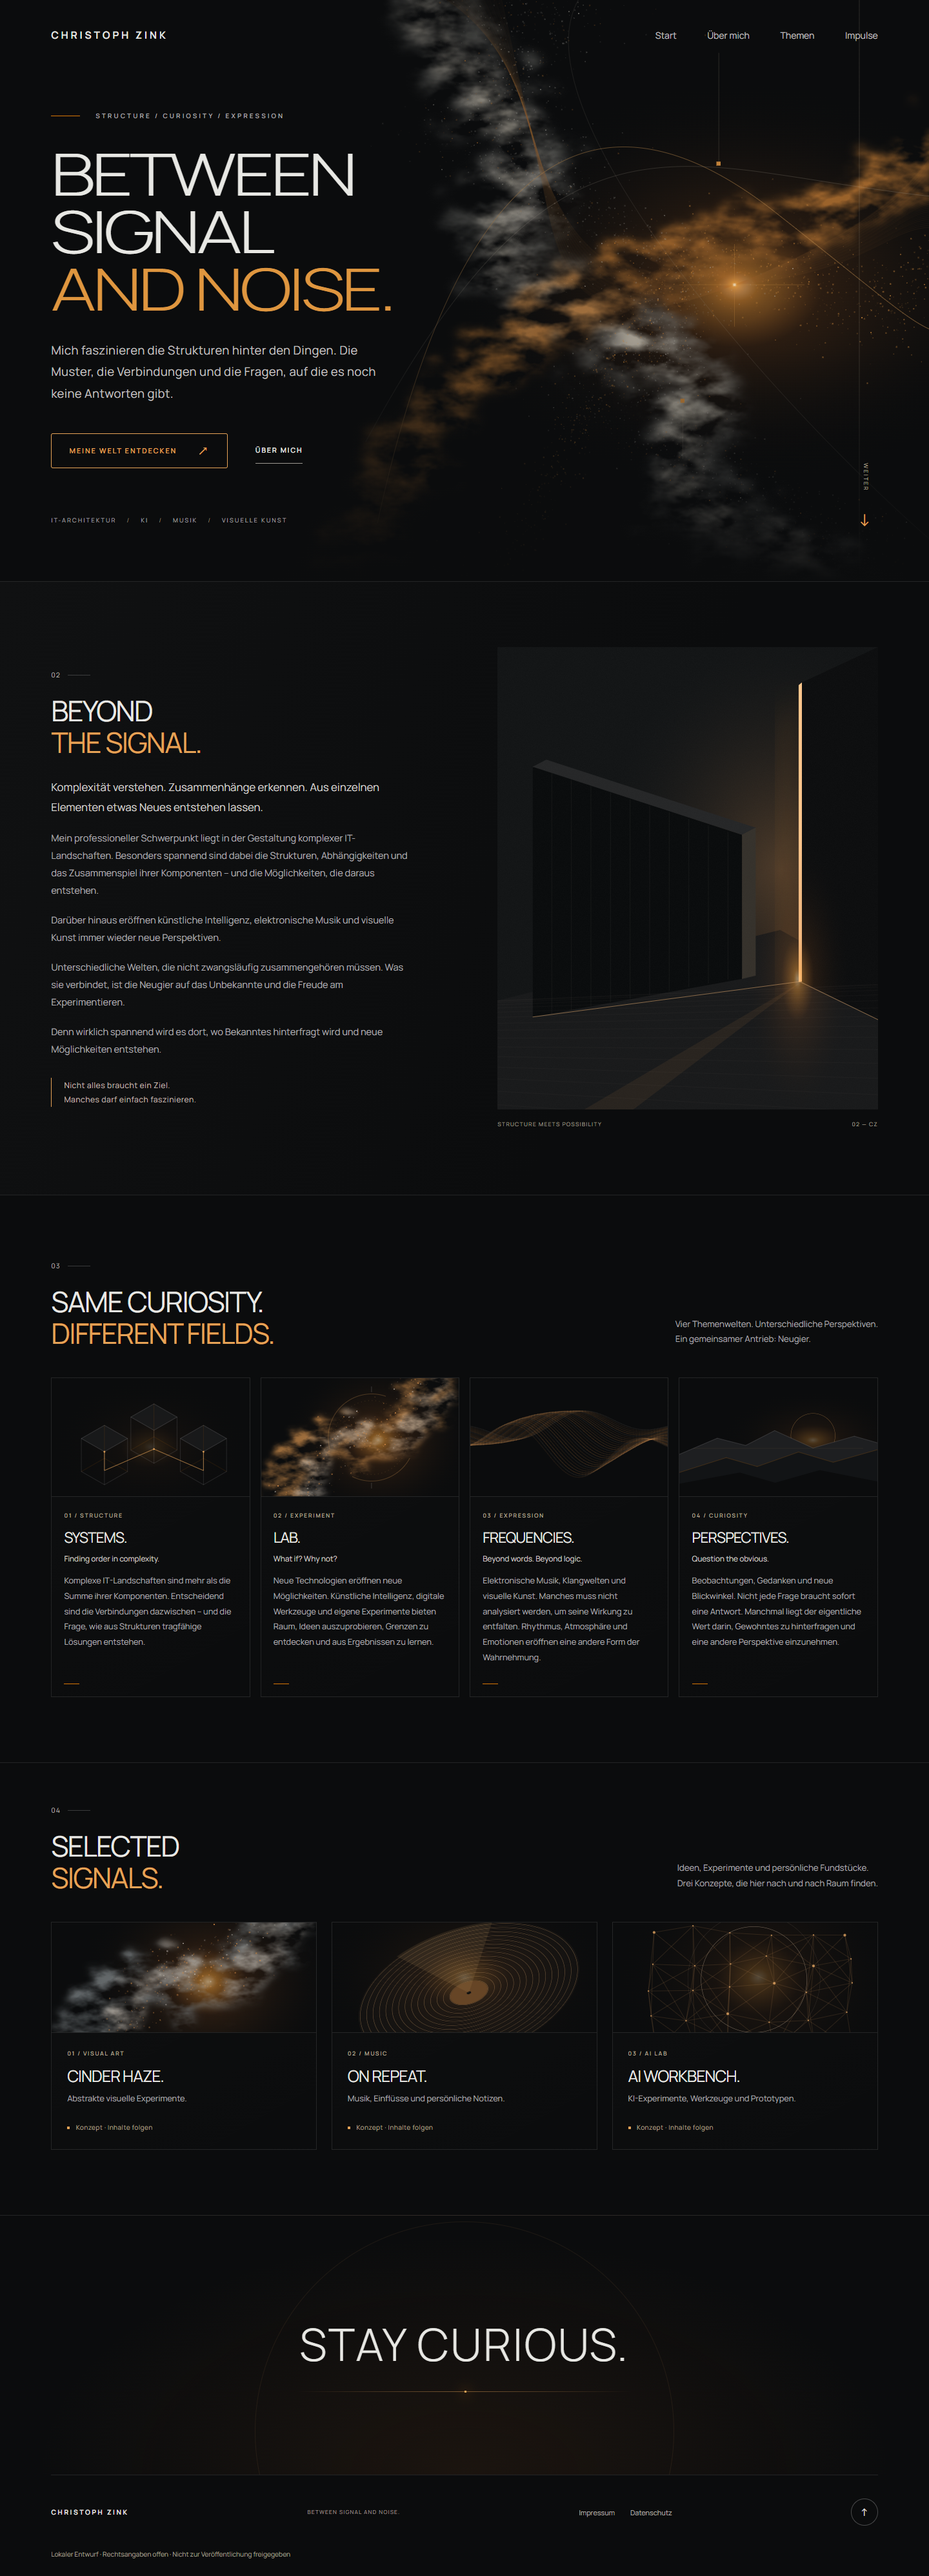
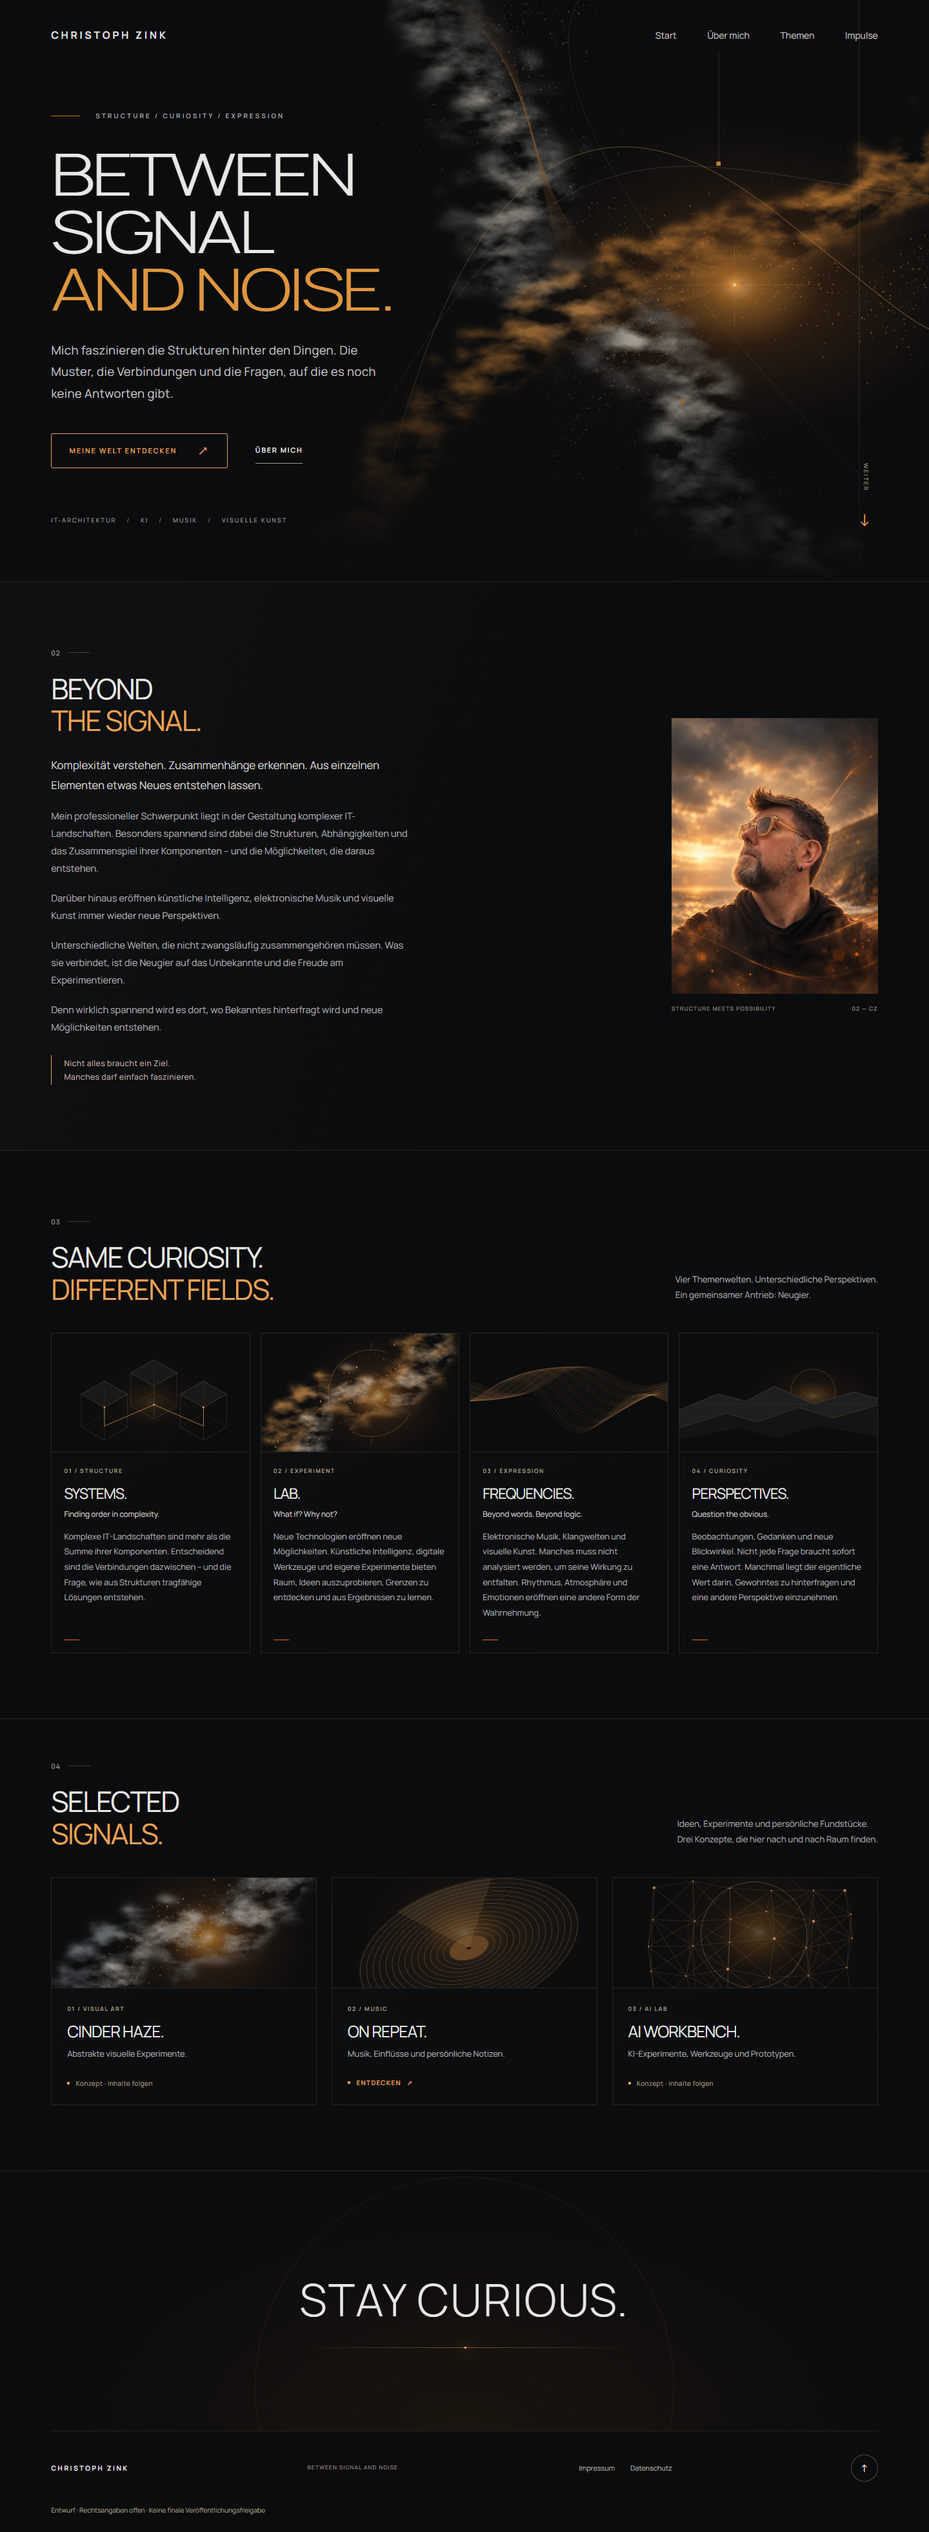
Add ON REPEAT music stories page

diff --git a/src/styles/global.css b/src/styles/global.css
@@ -88,6 +88,9 @@ p { color: var(--muted); }
 .signal-card h3 { font-size: 1.55rem; }
 .card-copy .coming-later { display: flex; align-items: center; gap: .6rem; margin-top: 1.5rem; color: #b7a593; font-size: .63rem; letter-spacing: .045em; }
 .coming-later > span { width: 4px; height: 4px; background: var(--amber-light); }
+.signal-link { display: inline-flex; align-items: center; gap: .6rem; margin-top: 1.5rem; color: var(--amber-light); font-size: .63rem; font-weight: 600; letter-spacing: .12em; }
+.signal-link > span:first-child { width: 4px; height: 4px; background: var(--amber-light); }
+.signal-link:hover, .spotify-link:hover { color: var(--paper); }
 .closing-section { background: radial-gradient(ellipse at 50% 100%, #6c3e192b, transparent 65%); padding-block: 7rem 5rem; overflow: clip; }
 .closing-composition { position: relative; text-align: center; padding-block: 3rem; }
 .closing-section h2 { position: relative; font-size: clamp(2rem, 4.8vw, 5rem); font-weight: 300; letter-spacing: .04em; }
@@ -111,6 +114,25 @@ p { color: var(--muted); }
 .legal-page dd { margin: .25rem 0 0; font-size: .85rem; color: #b9b1a7; }
 .legal-page .button { margin-top: 2rem; }
 .preserve-lines { white-space: pre-line; }
+.on-repeat-page { min-height: 100svh; background: radial-gradient(ellipse 70% 26% at 72% 0%, #6a3d1b1f, transparent 72%), var(--graphite); }
+.repeat-intro { padding-block: clamp(5.5rem, 11vw, 10rem) clamp(4.5rem, 8vw, 7.5rem); background: linear-gradient(120deg, #ffffff03, transparent 58%); }
+.repeat-kicker { display: flex; align-items: center; gap: 1rem; color: #b8ab9a; margin-bottom: 1.6rem; }
+.repeat-kicker > span { width: 36px; height: 1px; background: var(--amber); }
+.repeat-intro h1 { font-size: clamp(4rem, 9vw, 9.5rem); font-weight: 300; letter-spacing: -.075em; line-height: .88; }
+.repeat-intro h1 span { color: var(--amber-light); }
+.repeat-return { display: inline-block; margin-top: 3rem; color: #beb8b0; border-bottom: 1px solid #ffffff42; padding-bottom: .45rem; font-size: .65rem; font-weight: 600; letter-spacing: .16em; }
+.repeat-return:hover { border-color: var(--amber-light); color: var(--amber-light); }
+.repeat-stories { padding-block: 0 clamp(5rem, 10vw, 10rem); }
+.music-story { display: grid; grid-template-columns: minmax(220px, .72fr) minmax(0, 1.28fr); gap: clamp(3rem, 10vw, 12rem); padding-block: clamp(3.7rem, 7vw, 7rem); border-top: 1px solid var(--line); }
+.story-meta { max-width: 330px; }
+.story-number { color: var(--amber-light); font-size: .67rem; letter-spacing: .15em; margin-bottom: 1.55rem; }
+.story-meta .eyebrow { color: #b8ab9a; margin-bottom: .9rem; }
+.story-meta h2 { font-size: clamp(1.45rem, 2.2vw, 2.25rem); line-height: 1.18; letter-spacing: -.045em; }
+.story-meta h2 span { color: var(--amber-light); }
+.story-copy { max-width: 660px; }
+.story-copy p { font-size: clamp(.92rem, 1.15vw, 1.04rem); line-height: 1.9; }
+.story-copy p + p { margin-top: 1.45rem; }
+.spotify-link { display: inline-flex; align-items: center; gap: .6rem; margin-top: 2.4rem; color: var(--amber-light); border-bottom: 1px solid #e6a35770; padding-bottom: .45rem; font-size: .67rem; font-weight: 650; letter-spacing: .16em; }
 
 @media (min-width: 1600px) {
   .hero { padding-top: 5.7rem; }
@@ -131,6 +153,7 @@ p { color: var(--muted); }
   .topic-card > img { aspect-ratio: 2.3 / 1; }
   .about-grid { grid-template-columns: minmax(0, 1fr) 300px; gap: 5%; }
   .footer-statement { display: none; }
+  .music-story { gap: 4rem; }
 }
 
 @media (max-width: 720px) {
@@ -174,6 +197,12 @@ p { color: var(--muted); }
   .site-footer { padding-block: 2rem 1.5rem; gap: 1rem; }
   .site-footer .wordmark { width: 100%; }
   .draft-note { font-size: .6rem; }
+  .repeat-intro { padding-top: 4.2rem; }
+  .repeat-intro h1 { font-size: clamp(3.7rem, 17vw, 6rem); }
+  .music-story { grid-template-columns: 1fr; gap: 2rem; padding-block: 3.5rem; }
+  .story-meta { max-width: none; }
+  .story-number { margin-bottom: 1rem; }
+  .story-copy p { font-size: .9rem; line-height: 1.85; }
 }
 
 @media (max-width: 430px) {

diff --git a/src/data/content.ts b/src/data/content.ts
@@ -38,6 +38,60 @@ export const topics = [
 
 export const signals = [
   { title: 'CINDER HAZE.', category: '01 / VISUAL ART', body: 'Abstrakte visuelle Experimente.', image: '/art/cinder.svg' },
-  { title: 'ON REPEAT.', category: '02 / MUSIC', body: 'Musik, Einflüsse und persönliche Notizen.', image: '/art/repeat.svg' },
+  { title: 'ON REPEAT.', category: '02 / MUSIC', body: 'Musik, Einflüsse und persönliche Notizen.', image: '/art/repeat.svg', href: '/on-repeat/' },
   { title: 'AI WORKBENCH.', category: '03 / AI LAB', body: 'KI-Experimente, Werkzeuge und Prototypen.', image: '/art/workbench.svg' },
+];
+
+export interface MusicStory {
+  number: string;
+  category: string;
+  artist: string;
+  track: string;
+  paragraphs: string[];
+  spotifyUrl: string;
+}
+
+export const musicStories: MusicStory[] = [
+  {
+    number: '01',
+    category: 'STILL RESONATING.',
+    artist: 'LINKIN PARK',
+    track: 'IN THE END',
+    paragraphs: [
+      'Manche Songs bleiben, weil sie etwas berühren, das sich nur schwer in Worte fassen lässt.',
+      '„In the End“ ist für mich einer dieser Songs.',
+      'Nicht jeder Weg war einfach. Manche Erfahrungen hinterlassen Spuren, andere begleiten einen ein Leben lang. All das hat mich geprägt und gehört zu dem Menschen, der ich heute bin.',
+      'Mit meinen Stärken. Mit meinen Schwächen.',
+      'Und mit allem dazwischen.',
+    ],
+    spotifyUrl: 'https://open.spotify.com/track/60a0Rd6pjrkxjPbaKzXjfq',
+  },
+  {
+    number: '02',
+    category: 'BEYOND THE BEAT.',
+    artist: 'EMMANUEL TOP',
+    track: 'ACID PHASE',
+    paragraphs: [
+      'Musik braucht keine Worte. Sie kann eine Wucht entfalten, der man sich kaum entziehen kann.',
+      'Ein treibender Rhythmus. Eine Bassline. Wiederholungen, die sich langsam verändern und eine ganz eigene Dynamik entwickeln.',
+      '„Acid Phase“ von Emmanuel Top ist für mich genau das. Wenige Elemente, die sich überlagern, verändern und eine hypnotische Wirkung entfalten.',
+      'Was zunächst einfach erscheint, entwickelt mit jedem Takt eine neue Intensität.',
+      'Musik, die nicht nur gehört, sondern erlebt wird.',
+    ],
+    spotifyUrl: 'https://open.spotify.com/track/3096gFW9ESHwrlesPicxBu',
+  },
+  {
+    number: '03',
+    category: 'NEW FREQUENCIES.',
+    artist: 'ECCA VANDAL',
+    track: 'CRUISING TO SELF SOOTHE',
+    paragraphs: [
+      'Die Energie war zuerst da.',
+      '„Cruising to Self Soothe“ von Ecca Vandal ist roh, direkt und voller Bewegung. Ein Sound, der vom ersten Moment an mitreißt und keine große Erklärung braucht.',
+      'Doch hinter dieser Energie steckt mehr. Der Gedanke, durch Bewegung wieder zu sich selbst zu finden, Unsicherheit zu überwinden und dem eigenen Weg zu vertrauen, gibt dem Song eine weitere Dimension.',
+      'Zuerst hat mich die Musik gepackt. Die Bedeutung dahinter macht das Ganze noch intensiver.',
+      'Eine Entdeckung, die bleibt.',
+    ],
+    spotifyUrl: 'https://open.spotify.com/track/43YEV5eMkQYdkk27WV1Bkv',
+  },
 ];
